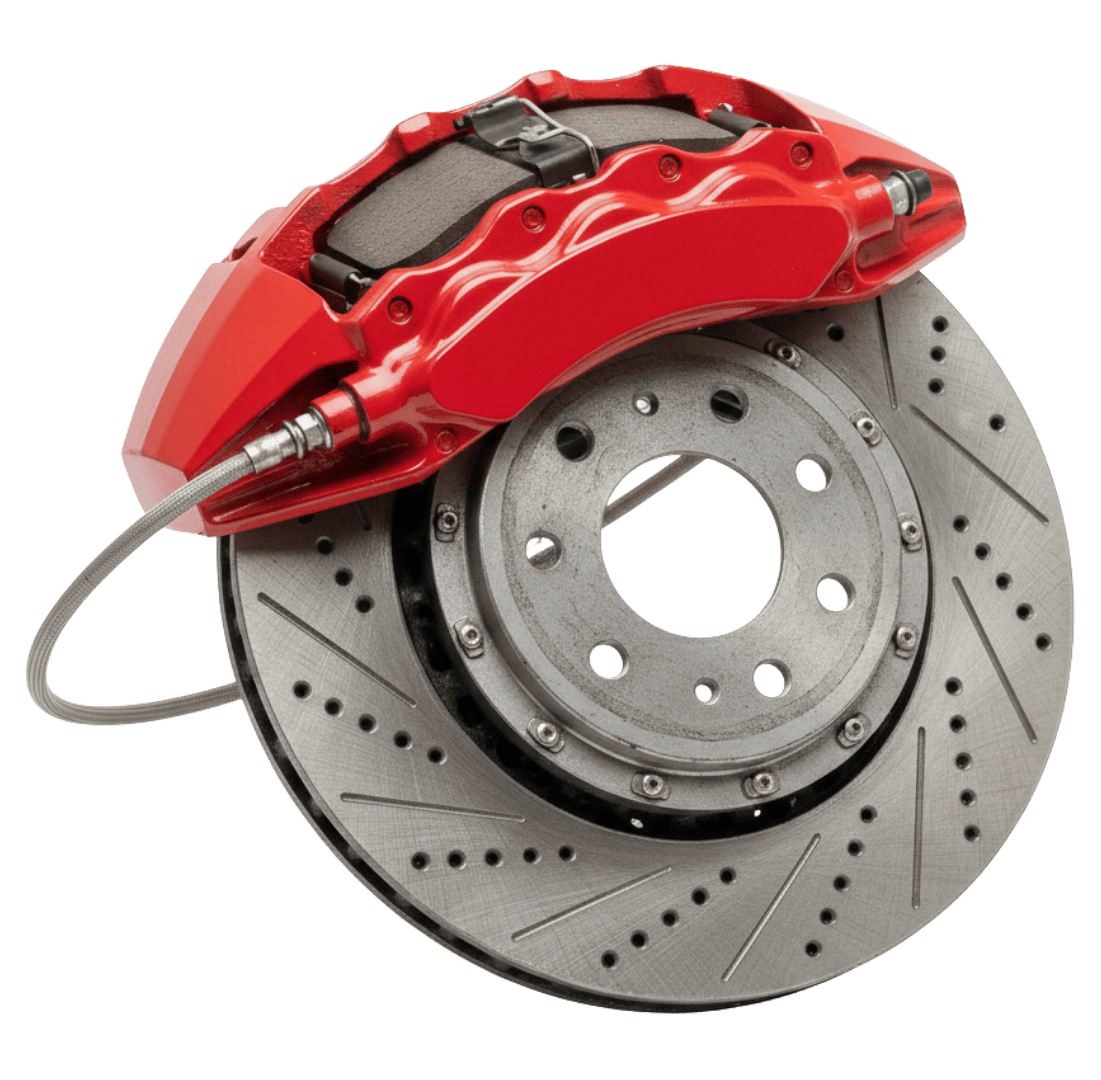
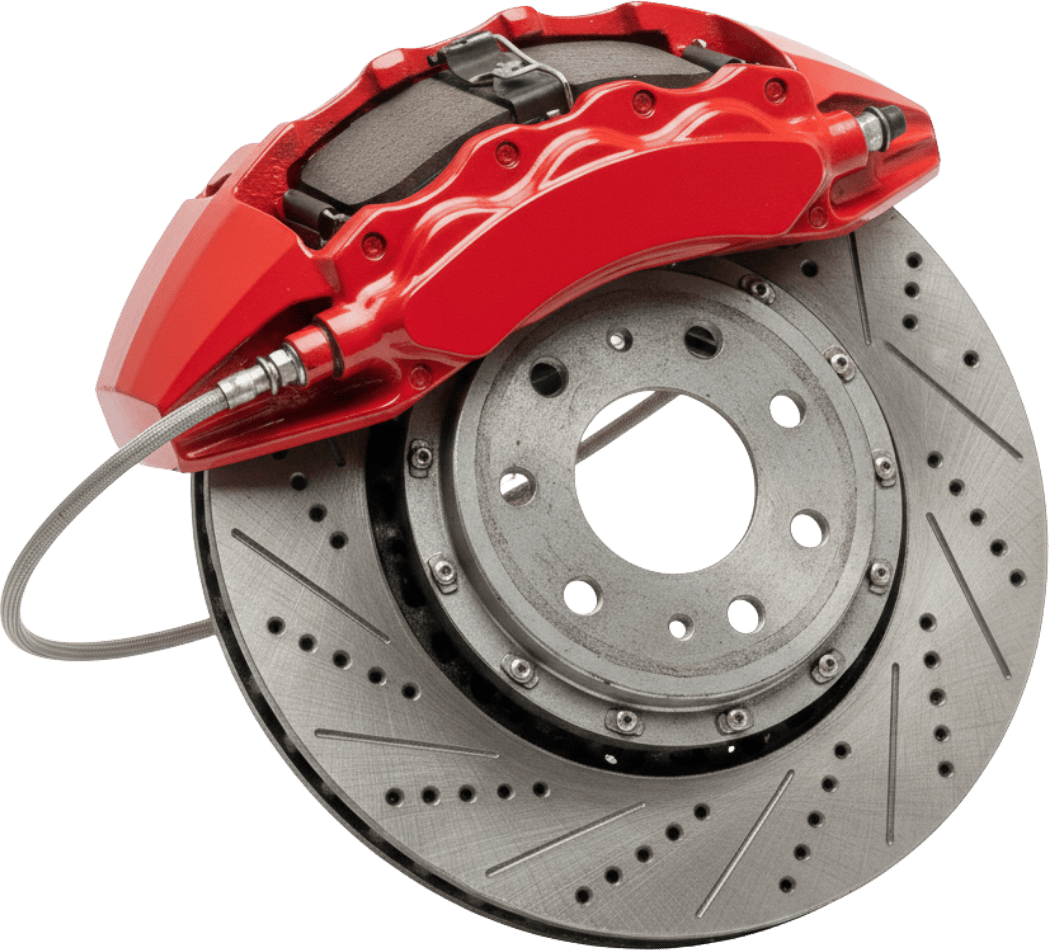
Show landing page hero images at one size, vertically centered
Hero sized images per page and aligned them to the bottom, so they varied
in size and sat low. Use one fixed box on every landing page and trim the
transparent padding from the AC, engine and brakes images.

Also stack the hero on mobile, reduce the subheading line height, replace
the deprecated Image priority prop with preload, and fix the a_engine.png
path casing, which would break on case-sensitive hosts.

diff --git a/components/Hero.tsx b/components/Hero.tsx
@@ -14,7 +14,6 @@ interface HeroProps {
   subheading3?:string;
   imageSrc?: string;
   imageAlt?: string;
-  slug?: string;
 }
 
 export default function Hero({
@@ -30,16 +29,7 @@ export default function Hero({
   subheading3="",
   imageSrc = "/images/honda-hero.png",
   imageAlt = "Honda vehicle",
-  slug = "",
 }: HeroProps) {
-  // Check if this is an AC or Engine page
-  const isAcOrEnginePage = slug?.includes("auto-ac-mechanic") || slug?.includes("check-engine-light");
-  
-  // Set image dimensions based on page type
-  const imageWidth = isAcOrEnginePage ? 700 : 600;
-  const imageHeight = isAcOrEnginePage ? 550 : 450;
-  const maxWidth = isAcOrEnginePage ? "lg:max-w-[620px]" : "lg:max-w-[520px]";
-
   return (
     <section
       className="relative w-full text-gray-900 px-4 sm:px-8 py-8 sm:py-12 border-b border-gray-200 bg-cover bg-center bg-no-repeat"
@@ -47,10 +37,10 @@ export default function Hero({
         backgroundImage: `linear-gradient(rgba(248,248,247,0.45), rgba(248,248,247,0.45)), url('/images/37_cda-bg-hero-2-1-.png')`,
       }}
     >
-      <div className="relative max-w-[1400px] mx-auto z-10 flex gap-10">
+      <div className="relative max-w-[1400px] mx-auto z-10 flex flex-col lg:flex-row lg:items-center lg:justify-between gap-6 lg:gap-10">
 
         {/* Main Heading */}
-        <div className="max-w-[850px] mb-5 text-center lg:text-left">
+        <div className="min-w-0 lg:flex-1 max-w-[850px] mb-5 lg:mb-0 text-center lg:text-left">
           <h1 className="font-anton text-3xl sm:text-5xl lg:text-[42px] uppercase leading-[1.08] tracking-wide text-black drop-shadow-sm">
             {headline}
           </h1>
@@ -58,7 +48,7 @@ export default function Hero({
           <div className="order-2 lg:order-1 lg:col-span-7 space-y-3 text-center lg:text-left">
 
             <div className="space-y-2">
-              <p className="text-gray-900 text-base sm:text-xl lg:text-[28px] leading-[84px]">
+              <p className="text-gray-900 text-base sm:text-xl lg:text-[28px] leading-relaxed pt-3">
                 {subheading1}
               </p>
 
@@ -105,17 +95,17 @@ export default function Hero({
           </div>
         </div>
 
-        {/* Honda Vehicle Image */}
-          <div className="order-1 lg:order-2 lg:col-span-5 flex justify-end items-end">
-            <Image
-              src={imageSrc}
-              alt={imageAlt}
-              width={imageWidth}
-              height={imageHeight}
-              priority
-              className={`w-full max-w-[280px] sm:max-w-[400px] ${maxWidth} h-auto object-contain drop-shadow-xl`}
-            />
-          </div>
+        {/* Hero image: every page shares one box, so images match in size and stay centered */}
+        <div className="relative w-full max-w-[320px] sm:max-w-[420px] lg:max-w-[480px] lg:w-[38%] aspect-[13/10] mx-auto lg:mx-0 shrink-0">
+          <Image
+            src={imageSrc}
+            alt={imageAlt}
+            fill
+            preload
+            sizes="(min-width: 1024px) 480px, (min-width: 640px) 420px, 320px"
+            className="object-contain object-center drop-shadow-xl"
+          />
+        </div>
       </div>
     </section>
   );

diff --git a/lib/landingPages.tsx b/lib/landingPages.tsx
@@ -610,7 +610,7 @@ export const CHECK_ENGINE_LIGHT_PAGE_DATA: LandingPageData = {
     subheading2:
       "We diagnose and repair engines for cars, vans & 4x4s.",
     subheading3:"",
-    imageSrc: "/images/a_Engine.png",
+    imageSrc: "/images/a_engine.png",
     imageAlt: "Car Check Engine Light Diagnostic Tool",
   },
   offers: {

diff --git a/components/ServiceLandingPage.tsx b/components/ServiceLandingPage.tsx
@@ -37,7 +37,6 @@ function ServiceLandingContent({ data }: ServiceLandingPageProps) {
           subheading3={data.hero.subheading3}
           imageSrc={data.hero.imageSrc}
           imageAlt={data.hero.imageAlt}
-          slug={data.slug}
         />
 
         {/* Blue Accent Bar 1 */}
